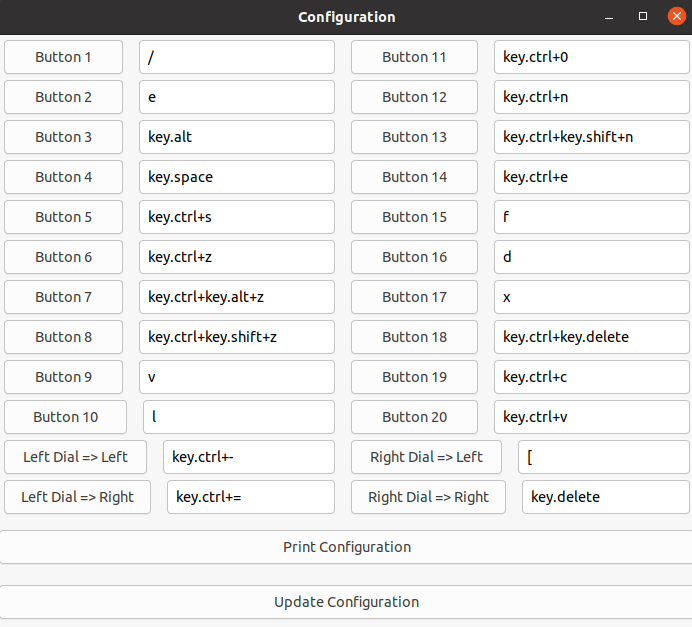
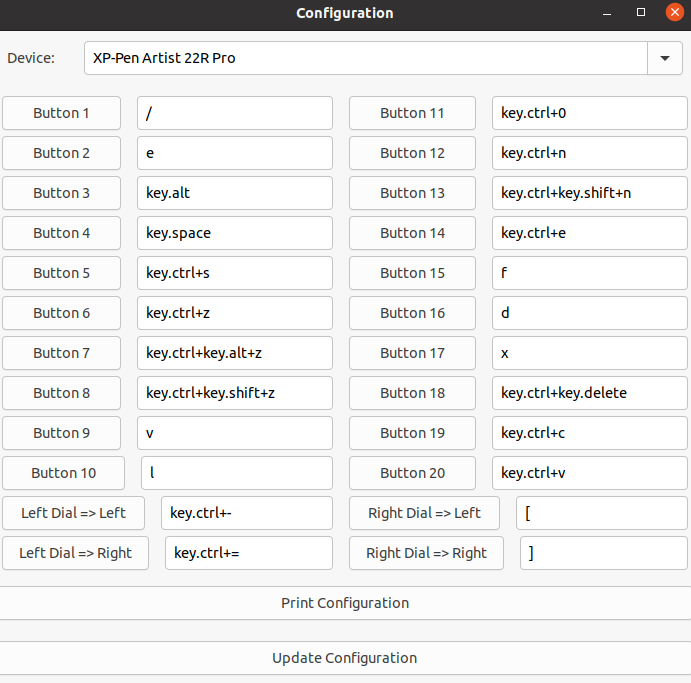
Fixing up the interface a tiny bit

Changed region(s): [[0.0, 0.0, 1.0, 1.0]]

diff --git a/xp_pen_userland_config_util/configuration_window.py b/xp_pen_userland_config_util/configuration_window.py
@@ -6,9 +6,9 @@ import gi
 import psutil
 from gi.repository import Gtk
 
-from .artist_22r_pro import Artist22RPro
-from .artist_13_3_pro import Artist133Pro
-from .artist_24_pro import Artist24Pro
+from artist_22r_pro import Artist22RPro
+from artist_13_3_pro import Artist133Pro
+from artist_24_pro import Artist24Pro
 
 gi.require_version("Gtk", "3.0")
 
@@ -41,6 +41,10 @@ class ConfigurationWindow(Gtk.Window):
         a24_pro_handler = Artist24Pro()
         self.handlers["XP-Pen"][a24_pro_handler.product_id()] = a24_pro_handler
 
+        devices_label = Gtk.Label(label="Device: ")
+        self.combo_label_box = Gtk.Box(spacing=6)
+        self.combo_label_box.pack_start(devices_label, False, False, self.default_padding_px)
+
         config_dropbox_data = Gtk.ListStore(object, str)
 
         for vendor in self.jsonConfig:
@@ -52,7 +56,8 @@ class ConfigurationWindow(Gtk.Window):
         self.config_dropbox = Gtk.ComboBox.new_with_model_and_entry(config_dropbox_data)
         self.config_dropbox.set_entry_text_column(1)
         self.config_dropbox.connect("changed", self.on_config_changed)
-        self.vert_box.pack_start(self.config_dropbox, False, False, 0)
+        self.combo_label_box.pack_start(self.config_dropbox, True, True, self.default_padding_px)
+        self.vert_box.pack_start(self.combo_label_box, False, False, self.default_padding_px)
 
     def on_config_changed(self, widget):
         tree_iter = widget.get_active_iter()

diff --git a/setup.py b/setup.py
@@ -2,7 +2,7 @@ from setuptools import setup, find_packages
 
 setup(
     name='xp_pen_userland_config_util',
-    version='0.1.0',
+    version='0.1.1',
     description='Configuration GUI for xp_pen_userland',
     author='Aren Villanueva',
     author_email='kurikaesu@users.noreply.github.com',

diff --git a/xp_pen_userland_config_util/artist_13_3_pro.py b/xp_pen_userland_config_util/artist_13_3_pro.py
@@ -2,8 +2,8 @@ import gi
 import pynput
 from gi.repository import Gtk
 
-from .pynput_to_scancode import from_scancode
-from .pynput_to_scancode import to_scancode
+from pynput_to_scancode import from_scancode
+from pynput_to_scancode import to_scancode
 
 
 class Artist133Pro:

diff --git a/xp_pen_userland_config_util/artist_22r_pro.py b/xp_pen_userland_config_util/artist_22r_pro.py
@@ -2,8 +2,8 @@ import gi
 import pynput
 from gi.repository import Gtk
 
-from .pynput_to_scancode import from_scancode
-from .pynput_to_scancode import to_scancode
+from pynput_to_scancode import from_scancode
+from pynput_to_scancode import to_scancode
 
 
 class Artist22RPro:

diff --git a/xp_pen_userland_config_util/artist_24_pro.py b/xp_pen_userland_config_util/artist_24_pro.py
@@ -2,8 +2,8 @@ import gi
 import pynput
 from gi.repository import Gtk
 
-from .pynput_to_scancode import from_scancode
-from .pynput_to_scancode import to_scancode
+from pynput_to_scancode import from_scancode
+from pynput_to_scancode import to_scancode
 
 
 class Artist24Pro:

diff --git a/xp_pen_userland_config_util/__main__.py b/xp_pen_userland_config_util/__main__.py
@@ -1,7 +1,7 @@
 import gi
 gi.require_version("Gtk", "3.0")
 from gi.repository import Gtk
-from .configuration_window import ConfigurationWindow
+from configuration_window import ConfigurationWindow
 
 
 def main():
